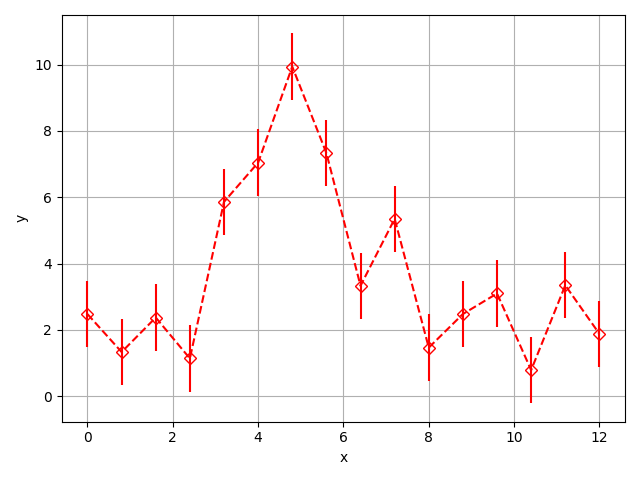
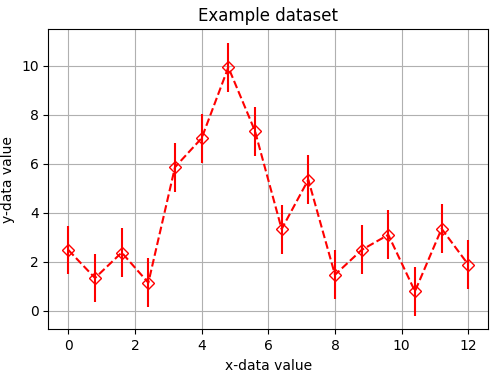
Improved data figure in docs intro

diff --git a/docs/source/images/getting_started_images/getting_started_image_production.py b/docs/source/images/getting_started_images/getting_started_image_production.py
@@ -19,10 +19,12 @@ y_error = [1., 1., 1., 1., 1., 1., 1., 1.,
            1., 1., 1., 1., 1., 1., 1., 1.]
 
 plt.errorbar(x_data, y_data, yerr=y_error, ls='dashed', marker='D', c='red', markerfacecolor='none')
-plt.ylabel('y')
-plt.xlabel('x')
+plt.title('Example dataset')
+plt.ylabel('y-data value')
+plt.xlabel('x-data value')
 plt.grid()
 plt.tight_layout()
+plt.gcf().set_size_inches([5,3.75])
 plt.savefig('gaussian_data.png')
 plt.show()
 

diff --git a/docs/source/getting_started.rst b/docs/source/getting_started.rst
@@ -84,8 +84,8 @@ function to return a prediction of the y-data values.
        @staticmethod
        def forward_model(x, theta):
            """
-           The forward model must make a prediction of the experimental data we would expect to measure
-           given a specific set model parameters 'theta'.
+           The forward model must make a prediction of the experimental data we would
+           expect to measure given a specific set model parameters 'theta'.
            """
            # unpack the model parameters
            area, width, center, background = theta
